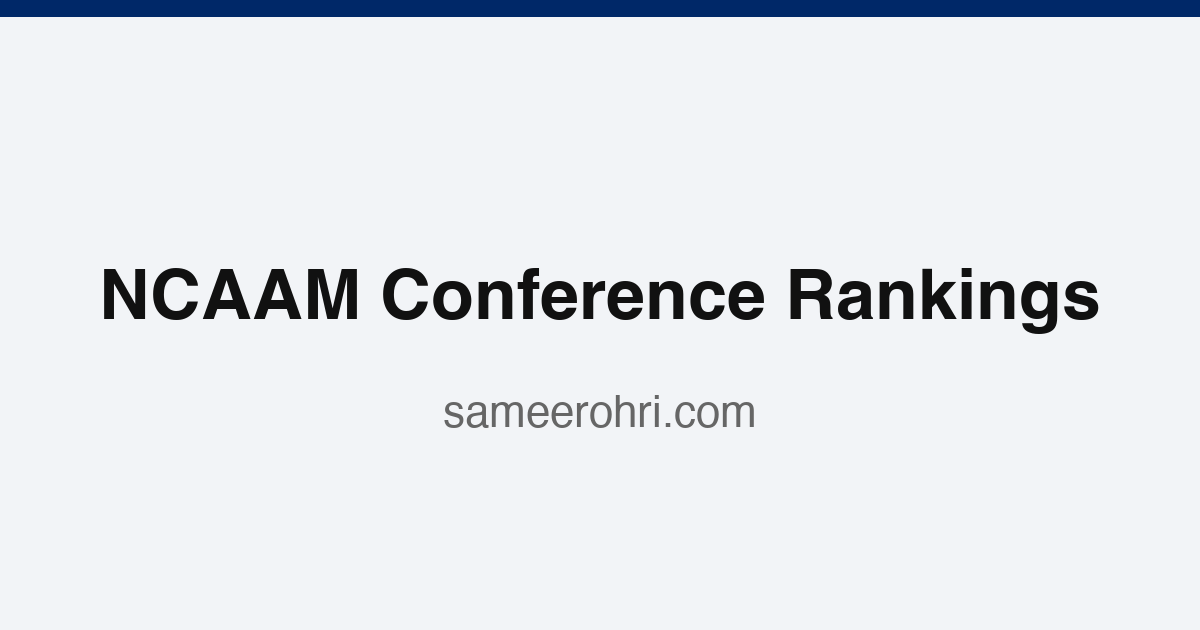
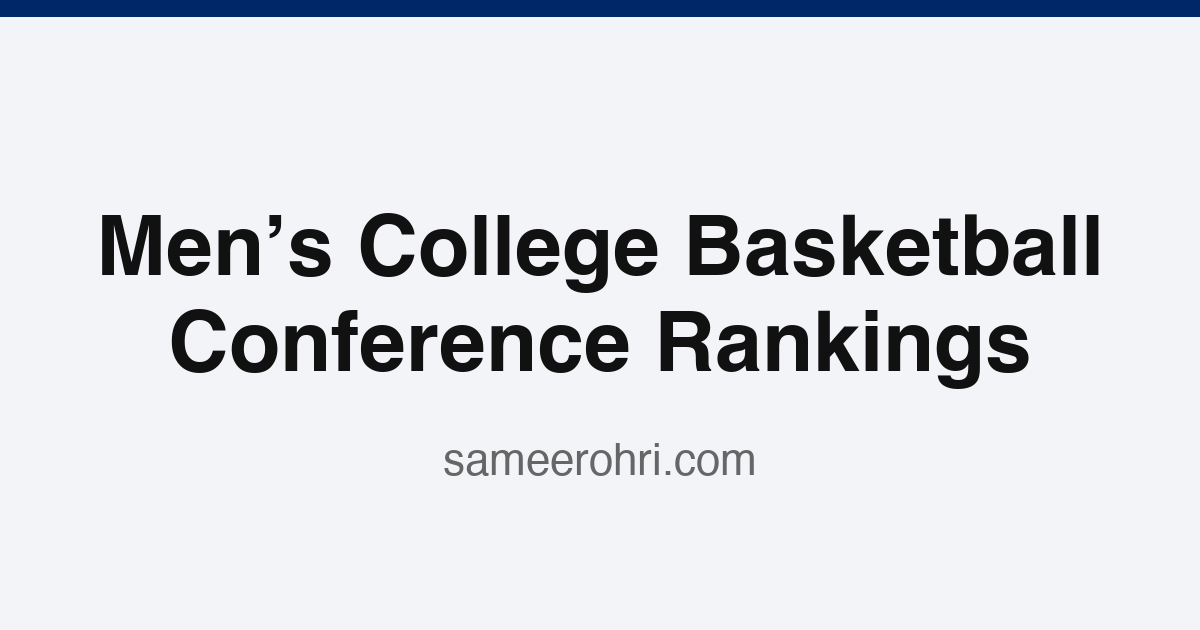
Preview cards and tab titles: Men's College Basketball instead of NCAAM

Changed region(s): [[0.0617, 0.3317, 0.925, 0.6333], [0.37, 0.6333, 0.6475, 0.754]]

diff --git a/ncaam/conferences/index.html b/ncaam/conferences/index.html
@@ -4,10 +4,10 @@
   <meta charset="utf-8" />
   <meta name="viewport" content="width=device-width, initial-scale=1" />
   <meta name="robots" content="noindex,nofollow,noarchive" />
-  <title>NCAAM Conference Rankings</title>
+  <title>Men&rsquo;s College Basketball Conference Rankings</title>
   <meta name="description" content="Men&#x27;s college basketball conferences ranked by their teams&#x27; average place, updated daily." />
   <meta property="og:type" content="website" />
-  <meta property="og:title" content="NCAAM Conference Rankings" />
+  <meta property="og:title" content="Men&rsquo;s College Basketball Conference Rankings" />
   <meta property="og:description" content="Men&#x27;s college basketball conferences ranked by their teams&#x27; average place, updated daily." />
   <meta property="og:image" content="https://sameerohri.com/ncaam/conferences/preview.png" />
   <meta property="og:image:width" content="1200" />

diff --git a/ncaam/games-of-the-day/index.html b/ncaam/games-of-the-day/index.html
@@ -4,10 +4,10 @@
   <meta charset="utf-8" />
   <meta name="viewport" content="width=device-width, initial-scale=1" />
   <meta name="robots" content="noindex,nofollow,noarchive" />
-  <title>NCAAM Games of the Day</title>
+  <title>Men&rsquo;s College Basketball Games of the Day</title>
   <meta name="description" content="Today&#x27;s men&#x27;s college basketball games, with predictions." />
   <meta property="og:type" content="website" />
-  <meta property="og:title" content="NCAAM Games of the Day" />
+  <meta property="og:title" content="Men&rsquo;s College Basketball Games of the Day" />
   <meta property="og:description" content="Today&#x27;s men&#x27;s college basketball games, with predictions." />
   <meta property="og:image" content="https://sameerohri.com/ncaam/games-of-the-day/preview.png" />
   <meta property="og:image:width" content="1200" />

diff --git a/ncaam/rankings/index.html b/ncaam/rankings/index.html
@@ -4,10 +4,10 @@
   <meta charset="utf-8" />
   <meta name="viewport" content="width=device-width, initial-scale=1" />
   <meta name="robots" content="noindex,nofollow,noarchive" />
-  <title>NCAAM Rankings</title>
+  <title>Men&rsquo;s College Basketball Rankings</title>
   <meta name="description" content="Men's college basketball rankings, updated daily." />
   <meta property="og:type" content="website" />
-  <meta property="og:title" content="NCAAM Rankings" />
+  <meta property="og:title" content="Men&rsquo;s College Basketball Rankings" />
   <meta property="og:description" content="Men's college basketball rankings, updated daily." />
   <meta property="og:image" content="https://sameerohri.com/ncaam/rankings/preview.png" />
   <meta property="og:image:width" content="1200" />
